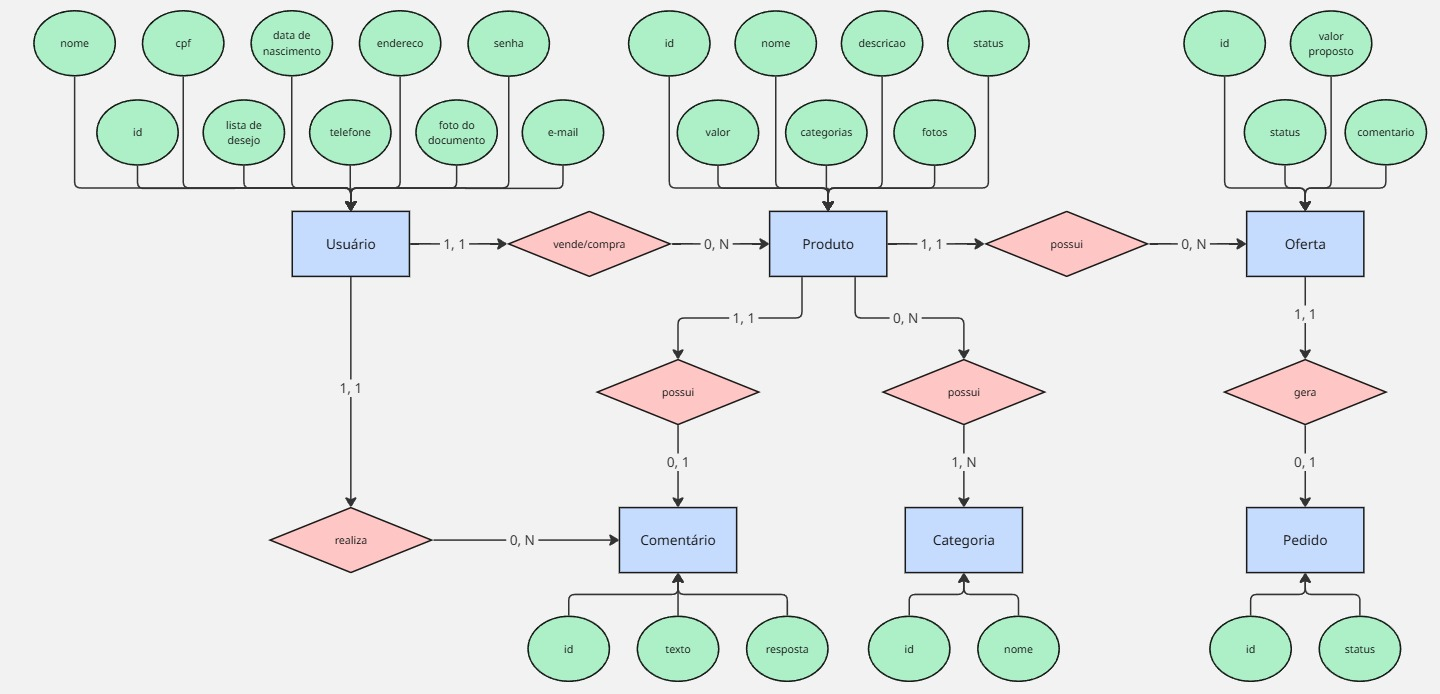
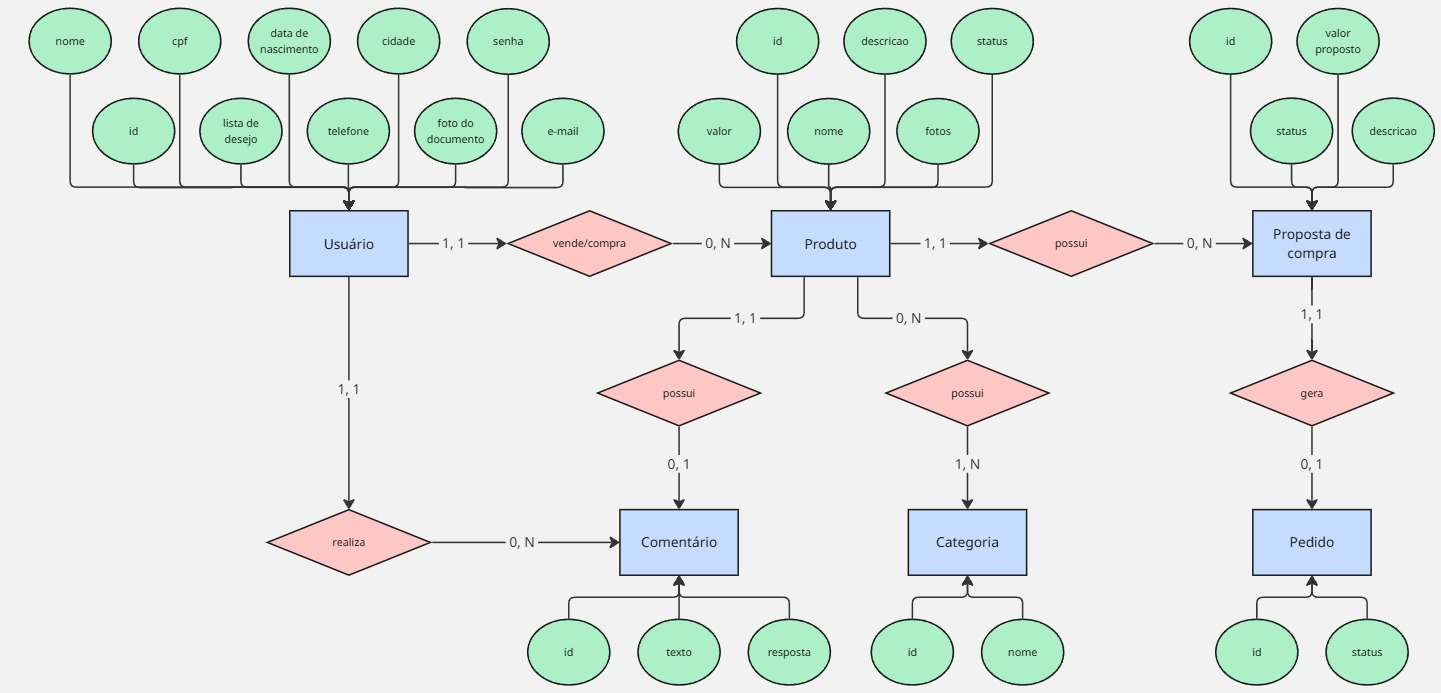
Melhoria na modelagem

diff --git a/docs/4-Projeto-Solucao.md b/docs/4-Projeto-Solucao.md
@@ -85,7 +85,7 @@ _Apresente o modelo de dados por meio de um modelo relacional que contemple todo
 <code>
 
 -- MySQL Script generated by MySQL Workbench
--- Fri May  2 14:56:22 2025
+-- Sun May 11 02:06:13 2025
 -- Model: New Model    Version: 1.0
 -- MySQL Workbench Forward Engineering
 
@@ -93,14 +93,10 @@ SET @OLD_UNIQUE_CHECKS=@@UNIQUE_CHECKS, UNIQUE_CHECKS=0;
 SET @OLD_FOREIGN_KEY_CHECKS=@@FOREIGN_KEY_CHECKS, FOREIGN_KEY_CHECKS=0;
 SET @OLD_SQL_MODE=@@SQL_MODE, SQL_MODE='ONLY_FULL_GROUP_BY,STRICT_TRANS_TABLES,NO_ZERO_IN_DATE,NO_ZERO_DATE,ERROR_FOR_DIVISION_BY_ZERO,NO_ENGINE_SUBSTITUTION';
 
--- Schema mydb
-
--- Schema mydb
 
 CREATE SCHEMA IF NOT EXISTS `mydb` DEFAULT CHARACTER SET utf8 ;
 USE `mydb` ;
 
--- Table `mydb`.`Usuário`
 
 CREATE TABLE IF NOT EXISTS `mydb`.`Usuário` (
   `id` VARCHAR(36) NOT NULL,
@@ -117,7 +113,6 @@ CREATE TABLE IF NOT EXISTS `mydb`.`Usuário` (
   UNIQUE INDEX `cpf_UNIQUE` (`cpf` ASC) VISIBLE)
 ENGINE = InnoDB;
 
--- Table `mydb`.`Produto`
 
 CREATE TABLE IF NOT EXISTS `mydb`.`Produto` (
   `id` VARCHAR(36) NOT NULL,
@@ -136,12 +131,11 @@ CREATE TABLE IF NOT EXISTS `mydb`.`Produto` (
     ON UPDATE NO ACTION)
 ENGINE = InnoDB;
 
--- Table `mydb`.`Oferta`
 
-CREATE TABLE IF NOT EXISTS `mydb`.`Oferta` (
+CREATE TABLE IF NOT EXISTS `mydb`.`Proposta de compra` (
   `id` VARCHAR(36) NOT NULL,
   `valor_proposto` DOUBLE NOT NULL,
-  `comentario` VARCHAR(45) NOT NULL,
+  `descricao` VARCHAR(45) NOT NULL,
   `status` VARCHAR(45) NOT NULL,
   `Produto_id` VARCHAR(36) NOT NULL,
   `Comprador_id` VARCHAR(36) NOT NULL,
@@ -161,7 +155,6 @@ CREATE TABLE IF NOT EXISTS `mydb`.`Oferta` (
     ON UPDATE NO ACTION)
 ENGINE = InnoDB;
 
--- Table `mydb`.`Pedido`
 
 CREATE TABLE IF NOT EXISTS `mydb`.`Pedido` (
   `id` VARCHAR(36) NOT NULL,
@@ -172,12 +165,11 @@ CREATE TABLE IF NOT EXISTS `mydb`.`Pedido` (
   INDEX `fk_Pedido_Oferta1_idx` (`Oferta_id` ASC) VISIBLE,
   CONSTRAINT `fk_Pedido_Oferta1`
     FOREIGN KEY (`Oferta_id`)
-    REFERENCES `mydb`.`Oferta` (`id`)
+    REFERENCES `mydb`.`Proposta de compra` (`id`)
     ON DELETE NO ACTION
     ON UPDATE NO ACTION)
 ENGINE = InnoDB;
 
--- Table `mydb`.`Comentário`
 
 CREATE TABLE IF NOT EXISTS `mydb`.`Comentário` (
   `id` VARCHAR(36) NOT NULL,
@@ -201,7 +193,6 @@ CREATE TABLE IF NOT EXISTS `mydb`.`Comentário` (
     ON UPDATE NO ACTION)
 ENGINE = InnoDB;
 
--- Table `mydb`.`Lista de desejos`
 
 CREATE TABLE IF NOT EXISTS `mydb`.`Lista de desejos` (
   `Comprador_id` VARCHAR(36) NOT NULL,
@@ -221,7 +212,6 @@ CREATE TABLE IF NOT EXISTS `mydb`.`Lista de desejos` (
     ON UPDATE NO ACTION)
 ENGINE = InnoDB;
 
--- Table `mydb`.`Fotos`
 
 CREATE TABLE IF NOT EXISTS `mydb`.`Fotos` (
   `id` VARCHAR(36) NOT NULL,
@@ -236,7 +226,6 @@ CREATE TABLE IF NOT EXISTS `mydb`.`Fotos` (
     ON UPDATE NO ACTION)
 ENGINE = InnoDB;
 
--- Table `mydb`.`Categoria`
 
 CREATE TABLE IF NOT EXISTS `mydb`.`Categoria` (
   `id` VARCHAR(36) NOT NULL,
@@ -245,7 +234,6 @@ CREATE TABLE IF NOT EXISTS `mydb`.`Categoria` (
   UNIQUE INDEX `id_UNIQUE` (`id` ASC) VISIBLE)
 ENGINE = InnoDB;
 
--- Table `mydb`.`Categoria do produto`
 
 CREATE TABLE IF NOT EXISTS `mydb`.`Categoria do produto` (
   `Categoria_id` VARCHAR(36) NOT NULL,
